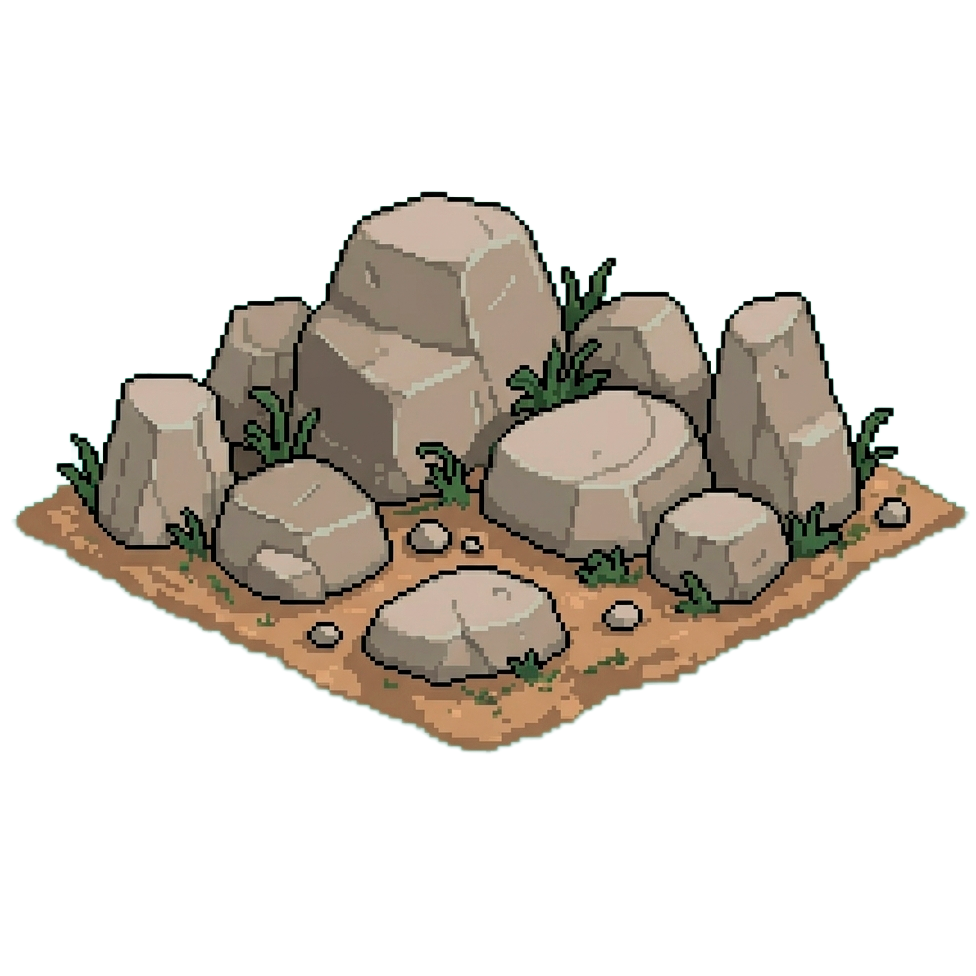
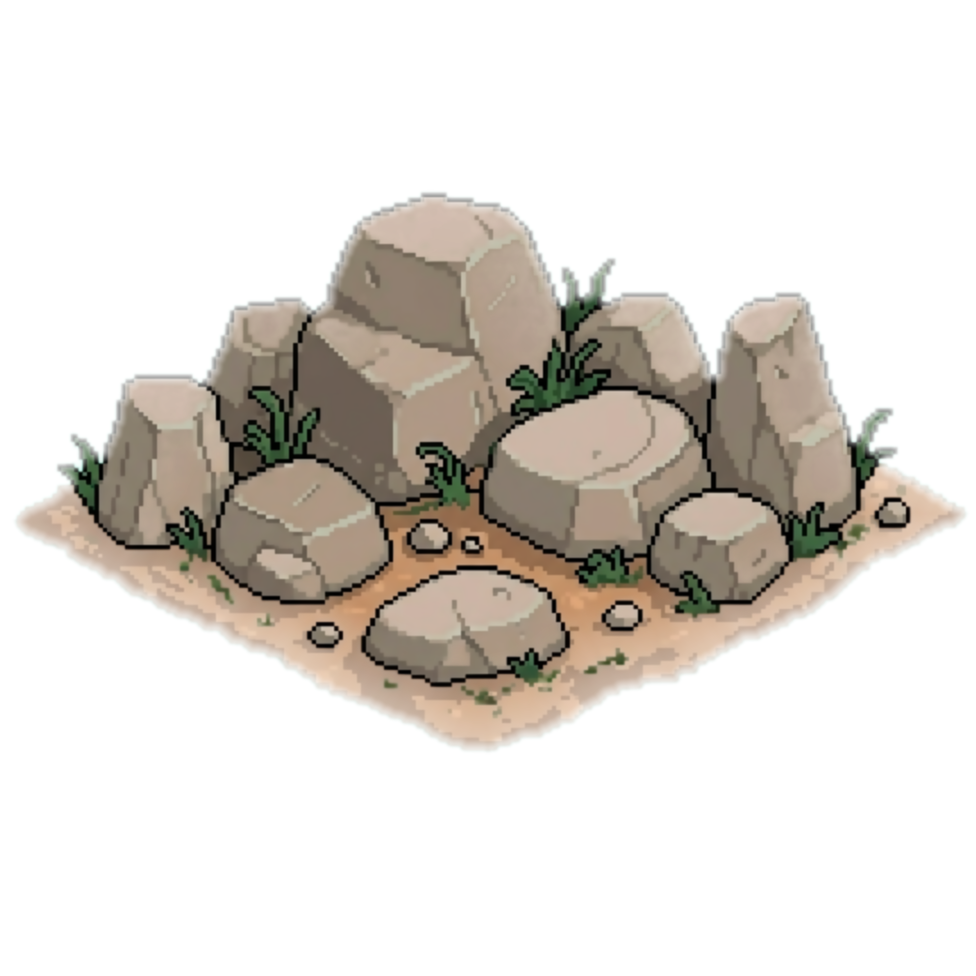
Mejora: Terreno 2.5D sin costuras con micro-vegetación, flores, senderos y sombras de contacto

diff --git a/js/renderer.js b/js/renderer.js
@@ -193,6 +193,9 @@ export class Renderer {
             this.ctx.fillRect(bgX, bgY, bgW, bgH);
         }
 
+        // ── DETALLES DEL TERRENO 2.5D (MICRO-VEGETACIÓN, FLORES Y SENDEROS) ─────
+        this.drawTerrainDetails(world, agent, timestamp, viewW, viewH);
+
         // ── HUELLAS (FOOTPRINTS) EN EL DESIERTO / NIEVE ────────────────────────
         if (agent) {
             const currentCell = world.getCell(Math.floor(agent.x), Math.floor(agent.y));
@@ -448,6 +451,12 @@ export class Renderer {
                 }
             }
 
+            // Sombra suave de contacto en el suelo bajo el árbol
+            this.ctx.fillStyle = 'rgba(15, 35, 10, 0.22)';
+            this.ctx.beginPath();
+            this.ctx.ellipse(drawX, drawY + ISO_H * 0.55, isStump ? 8 : 13, isStump ? 4 : 6.5, 0, 0, Math.PI * 2);
+            this.ctx.fill();
+
             this.ctx.globalAlpha = alpha;
             this.ctx.drawImage(img, drawX - w / 2, drawY - h + ISO_H + 2, w, h);
             this.ctx.globalAlpha = 1.0;
@@ -560,6 +569,12 @@ export class Renderer {
                 }
             }
 
+            // Sombra suave de contacto en el suelo bajo el árbol
+            this.ctx.fillStyle = 'rgba(15, 35, 10, 0.22)';
+            this.ctx.beginPath();
+            this.ctx.ellipse(drawX, drawY + ISO_H * 0.55, isStump ? 8 : 13, isStump ? 4 : 6.5, 0, 0, Math.PI * 2);
+            this.ctx.fill();
+
             this.ctx.globalAlpha = alpha;
             this.ctx.drawImage(img, drawX - w / 2, drawY - h + ISO_H + 2, w, h);
             this.ctx.globalAlpha = 1.0;
@@ -578,9 +593,14 @@ export class Renderer {
         const { sx, sy, cx } = this.getIsoBase(x, y);
         const isAlive = type === RESOURCES.BUSH;
 
+        this.ctx.fillStyle = 'rgba(15, 35, 10, 0.2)';
+        this.ctx.beginPath();
+        this.ctx.ellipse(cx, sy + 6, 9, 4.5, 0, 0, Math.PI * 2);
+        this.ctx.fill();
+
         let img = isAlive ? this.images?.arbusto_1 : this.images?.arbusto_2;
         if (img) {
-            const w = 26, h = 26;
+            const w = 28, h = 28;
             this.ctx.drawImage(img, cx - w / 2, sy - h / 2 + 2, w, h);
         } else {
             this.ctx.fillStyle = isAlive ? '#22c55e' : '#854d0e';
@@ -595,9 +615,15 @@ export class Renderer {
         const { sx, sy, cx } = this.getIsoBase(x, y);
         const isEmpty = type === RESOURCES.ROCK_EMPTY;
 
+        // Sombra suave de contacto bajo las rocas
+        this.ctx.fillStyle = 'rgba(15, 25, 10, 0.24)';
+        this.ctx.beginPath();
+        this.ctx.ellipse(cx, sy + 5, 11, 5.5, 0, 0, Math.PI * 2);
+        this.ctx.fill();
+
         if (isEmpty) {
             if (this.images?.rocas_2) {
-                this.ctx.drawImage(this.images.rocas_2, cx - 12, sy - 10, 24, 22);
+                this.ctx.drawImage(this.images.rocas_2, cx - 15, sy - 13, 30, 28);
             } else {
                 this.ctx.fillStyle = '#94a3b8';
                 this.ctx.beginPath();
@@ -606,7 +632,7 @@ export class Renderer {
             }
         } else {
             if (this.images?.rocas_1) {
-                this.ctx.drawImage(this.images.rocas_1, cx - 12, sy - 14, 24, 24);
+                this.ctx.drawImage(this.images.rocas_1, cx - 16, sy - 16, 32, 32);
             } else {
                 // Roca isométrica procedural
                 this.ctx.fillStyle = '#64748b';
@@ -831,14 +857,210 @@ export class Renderer {
         }
     }
 
-    // ─── Puntos de capacidad ────────────────────────────────────────────────────
+    // ─── Detalles 2.5D del terreno (micro-vegetación, flores, piedras y senderos) ─
+    drawTerrainDetails(world, agent, timestamp, viewW, viewH) {
+        const ctx = this.ctx;
+        ctx.save();
+
+        const minScreenX = this.cameraX - 48;
+        const maxScreenX = this.cameraX + viewW + 48;
+        const minScreenY = this.cameraY - 48;
+        const maxScreenY = this.cameraY + viewH + 48;
+
+        const centerX = Math.floor(world.width / 2);
+        const centerY = Math.floor(world.height / 2);
+        const hubX = (agent && agent.home) ? agent.home.x + 0.5 : centerX;
+        const hubY = (agent && agent.home) ? agent.home.y + 0.5 : centerY;
+        const connections = (world.currentZone && world.currentZone.connections) ? world.currentZone.connections : {};
+        const windTime = (timestamp || 0) * 0.0022;
+
+        for (let y = 0; y < world.height; y++) {
+            for (let x = 0; x < world.width; x++) {
+                const { cx, cy } = this.getIsoBase(x, y);
+                if (cx < minScreenX || cx > maxScreenX || cy < minScreenY || cy > maxScreenY) continue;
+
+                const cell = world.getCell(x, y);
+                if (!cell || cell.type === RESOURCES.WATER || cell.type === RESOURCES.VOID) continue;
+
+                // Hash determinístico por celda (x, y)
+                const h = ((x * 374761393) ^ (y * 668265263) ^ ((x * y) * 1274126177)) >>> 0;
+                const ox = ((h & 0xff) / 255 - 0.5) * 12;
+                const oy = (((h >> 8) & 0xff) / 255 - 0.5) * 6;
+                const px = cx + ox;
+                const py = cy + oy;
+
+                // 1. Senderos orgánicos hacia salidas de zona y alrededor de la casa de Gruni
+                let isTrail = false;
+                if (agent && agent.home) {
+                    const distHome = Math.hypot(x - hubX, y - hubY);
+                    if (distHome > 1.2 && distHome < 3.6 && ((h % 10) < 7)) {
+                        isTrail = true;
+                    }
+                }
+                const wobble = Math.sin(x * 0.35 + y * 0.35) * 1.1;
+                if (!isTrail) {
+                    if (connections.north && y <= hubY && Math.abs(x - (centerX + wobble)) < 1.15 && (h % 10) < 6) isTrail = true;
+                    else if (connections.south && y >= hubY && Math.abs(x - (centerX - wobble)) < 1.15 && (h % 10) < 6) isTrail = true;
+                    else if (connections.west && x <= hubX && Math.abs(y - (centerY + wobble)) < 1.15 && (h % 10) < 6) isTrail = true;
+                    else if (connections.east && x >= hubX && Math.abs(y - (centerY - wobble)) < 1.15 && (h % 10) < 6) isTrail = true;
+                }
+
+                if (isTrail && cell.type === RESOURCES.EMPTY) {
+                    ctx.fillStyle = cell.biome === BIOMES.SNOW ? 'rgba(148, 163, 184, 0.22)' : 'rgba(166, 124, 72, 0.22)';
+                    ctx.beginPath();
+                    ctx.ellipse(px, py, 7.5 + (h % 3), 3.8 + (h % 2), 0, 0, Math.PI * 2);
+                    ctx.fill();
+
+                    if ((h % 3) === 0) {
+                        ctx.fillStyle = 'rgba(120, 90, 55, 0.28)';
+                        ctx.beginPath();
+                        ctx.ellipse(px + 3, py + 1, 2.2, 1.1, 0, 0, Math.PI * 2);
+                        ctx.fill();
+                    }
+                    continue;
+                }
+
+                // 2. Micro-detalles según el bioma
+                if (cell.biome === BIOMES.GRASS) {
+                    // Variación suave de volumen/relieve en el pasto
+                    if ((h % 7) === 0) {
+                        ctx.fillStyle = (h & 1) ? 'rgba(30, 75, 16, 0.07)' : 'rgba(163, 230, 53, 0.08)';
+                        ctx.beginPath();
+                        ctx.ellipse(px, py, 10, 5, 0, 0, Math.PI * 2);
+                        ctx.fill();
+                    }
+
+                    // Matas de pasto 2.5D ilustradas con movimiento de brisa
+                    if ((h % 100) < 42) {
+                        const sway = Math.sin(windTime + x * 0.45 + y * 0.35) * 1.1;
+                        const bladeCount = 2 + (h % 3);
+                        // Pequeña sombra en la raíz
+                        ctx.fillStyle = 'rgba(20, 52, 10, 0.24)';
+                        ctx.beginPath();
+                        ctx.ellipse(px, py + 0.8, 3.2, 1.3, 0, 0, Math.PI * 2);
+                        ctx.fill();
+
+                        for (let b = 0; b < bladeCount; b++) {
+                            const spread = (b - (bladeCount - 1) / 2) * 2.1;
+                            const bh = 3.8 + ((h >> (b + 2)) % 3) * 1.1;
+                            ctx.strokeStyle = (b % 2 === 0) ? '#3f7d18' : '#65a30d';
+                            ctx.lineWidth = 1.05;
+                            ctx.lineCap = 'round';
+                            ctx.beginPath();
+                            ctx.moveTo(px + spread * 0.45, py);
+                            ctx.quadraticCurveTo(
+                                px + spread * 0.8 + sway * 0.5,
+                                py - bh * 0.55,
+                                px + spread * 1.15 + sway,
+                                py - bh
+                            );
+                            ctx.stroke();
+
+                            // Punta iluminada por el sol
+                            ctx.strokeStyle = '#a3e635';
+                            ctx.lineWidth = 0.7;
+                            ctx.beginPath();
+                            ctx.moveTo(px + spread * 0.9 + sway * 0.6, py - bh * 0.65);
+                            ctx.lineTo(px + spread * 1.15 + sway, py - bh);
+                            ctx.stroke();
+                        }
+                    }
+
+                    // Florcitas silvestres (margaritas blancas, nomeolvides celestes, tréboles lilas y botones dorados)
+                    const flowerRoll = (h >> 12) % 100;
+                    if (flowerRoll < 13 && cell.type === RESOURCES.EMPTY) {
+                        const flowerColors = ['#fefce8', '#38bdf8', '#e879f9', '#facc15'];
+                        const petalColor = flowerColors[h % flowerColors.length];
+                        const clusterCount = 1 + (h % 2);
+                        for (let f = 0; f < clusterCount; f++) {
+                            const fx = px + (f * 3.8) - 1.5;
+                            const fy = py - 1.8 - (f * 1.2);
+                            // Tallo
+                            ctx.strokeStyle = '#2d6a18';
+                            ctx.lineWidth = 0.7;
+                            ctx.beginPath();
+                            ctx.moveTo(fx, fy + 2.2);
+                            ctx.lineTo(fx, fy);
+                            ctx.stroke();
+                            // Pétalos
+                            ctx.fillStyle = petalColor;
+                            for (let p = 0; p < 4; p++) {
+                                const ang = (p * Math.PI) / 2 + 0.4;
+                                ctx.beginPath();
+                                ctx.arc(fx + Math.cos(ang) * 1.05, fy + Math.sin(ang) * 0.85, 0.85, 0, Math.PI * 2);
+                                ctx.fill();
+                            }
+                            // Centro de la flor
+                            ctx.fillStyle = petalColor === '#facc15' ? '#b45309' : '#facc15';
+                            ctx.beginPath();
+                            ctx.arc(fx, fy, 0.65, 0, Math.PI * 2);
+                            ctx.fill();
+                        }
+                    } else if (flowerRoll >= 13 && flowerRoll < 19 && cell.type === RESOURCES.EMPTY) {
+                        // Piedritas 2.5D con sombra y brillo superior
+                        ctx.fillStyle = 'rgba(20, 40, 10, 0.25)';
+                        ctx.beginPath();
+                        ctx.ellipse(px, py + 0.7, 2.5, 1.2, 0, 0, Math.PI * 2);
+                        ctx.fill();
+
+                        ctx.fillStyle = '#78716c';
+                        ctx.beginPath();
+                        ctx.ellipse(px, py, 2.1, 1.3, 0, 0, Math.PI * 2);
+                        ctx.fill();
+
+                        ctx.fillStyle = '#cbd5e1';
+                        ctx.beginPath();
+                        ctx.ellipse(px - 0.4, py - 0.35, 1.1, 0.6, 0, 0, Math.PI * 2);
+                        ctx.fill();
+                    }
+                } else if (cell.biome === BIOMES.DESERT || cell.biome === BIOMES.SAND) {
+                    if ((h % 100) < 18 && cell.type === RESOURCES.EMPTY) {
+                        // Ondas suaves en la arena y piedritas cálidas
+                        ctx.strokeStyle = 'rgba(180, 120, 50, 0.22)';
+                        ctx.lineWidth = 0.8;
+                        ctx.beginPath();
+                        ctx.arc(px, py + 3, 5, -Math.PI * 0.75, -Math.PI * 0.25);
+                        ctx.stroke();
+                    }
+                } else if (cell.biome === BIOMES.SNOW) {
+                    if ((h % 100) < 20 && cell.type === RESOURCES.EMPTY) {
+                        ctx.fillStyle = 'rgba(255, 255, 255, 0.45)';
+                        ctx.beginPath();
+                        ctx.ellipse(px, py, 4, 1.8, 0, 0, Math.PI * 2);
+                        ctx.fill();
+                    }
+                } else if (cell.biome === BIOMES.PINE) {
+                    // Bosque mágico: esporas luminosas y helechos oscuros
+                    if ((h % 100) < 22 && cell.type === RESOURCES.EMPTY) {
+                        const glow = 0.45 + 0.35 * Math.sin(windTime * 1.5 + x + y);
+                        ctx.fillStyle = (h & 1) ? 
+gba(56, 189, 248, ) : 
+gba(192, 132, 252, );
+                        ctx.beginPath();
+                        ctx.arc(px, py - 1.5, 1.1, 0, Math.PI * 2);
+                        ctx.fill();
+                    }
+                }
+            }
+        }
+
+        ctx.restore();
+    }
+
+    // ─── Puntos de capacidad (sutiles en la base del recurso) ───────────────────
     drawResourceDots(x, y, capacity) {
         const { cx, sy } = this.getIsoBase(x, y);
-        const startX = cx - (capacity * 5) / 2 + 2.5;
+        const startX = cx - (capacity * 4) / 2 + 2;
+        const dotY = sy + ISO_H - 1;
         for (let i = 0; i < capacity; i++) {
-            this.ctx.fillStyle = '#f8fafc';
+            this.ctx.fillStyle = 'rgba(15, 23, 42, 0.55)';
             this.ctx.beginPath();
-            this.ctx.arc(startX + i * 5, sy - 2, 1.5, 0, Math.PI * 2);
+            this.ctx.arc(startX + i * 4, dotY, 1.4, 0, Math.PI * 2);
+            this.ctx.fill();
+
+            this.ctx.fillStyle = '#fde68a';
+            this.ctx.beginPath();
+            this.ctx.arc(startX + i * 4, dotY, 0.95, 0, Math.PI * 2);
             this.ctx.fill();
         }
     }
